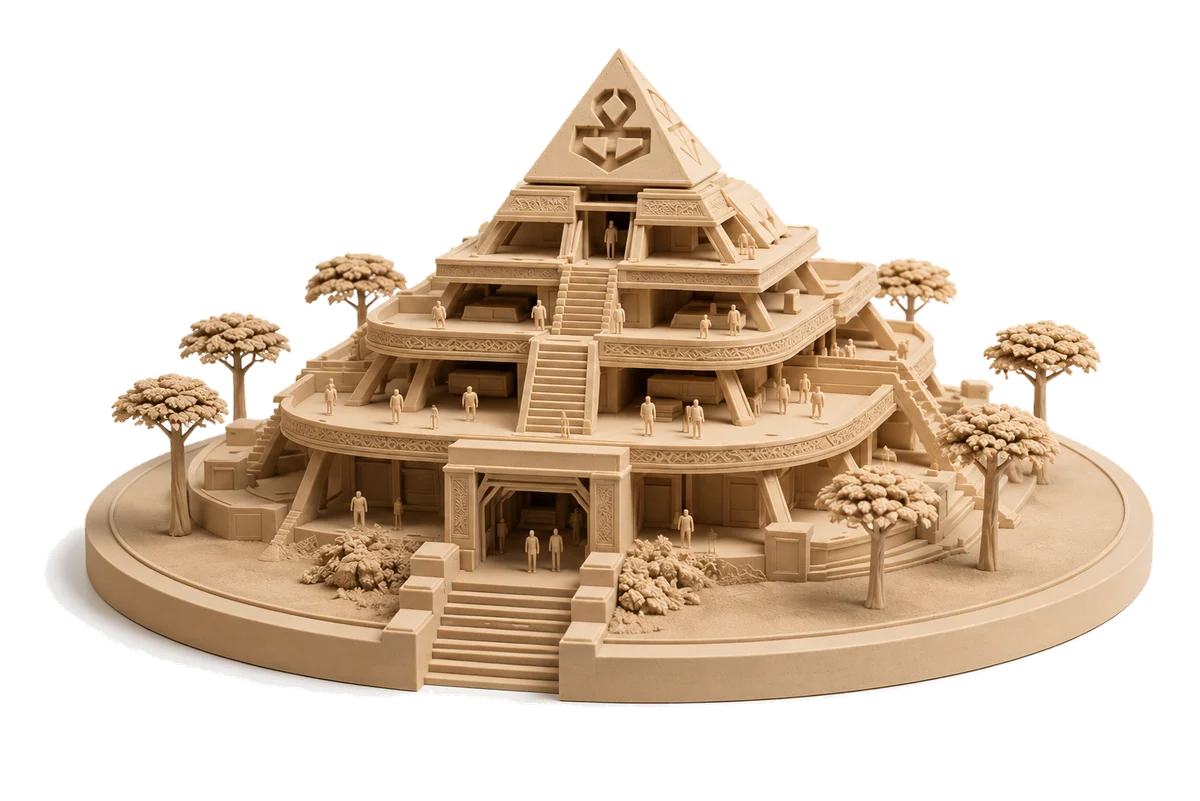
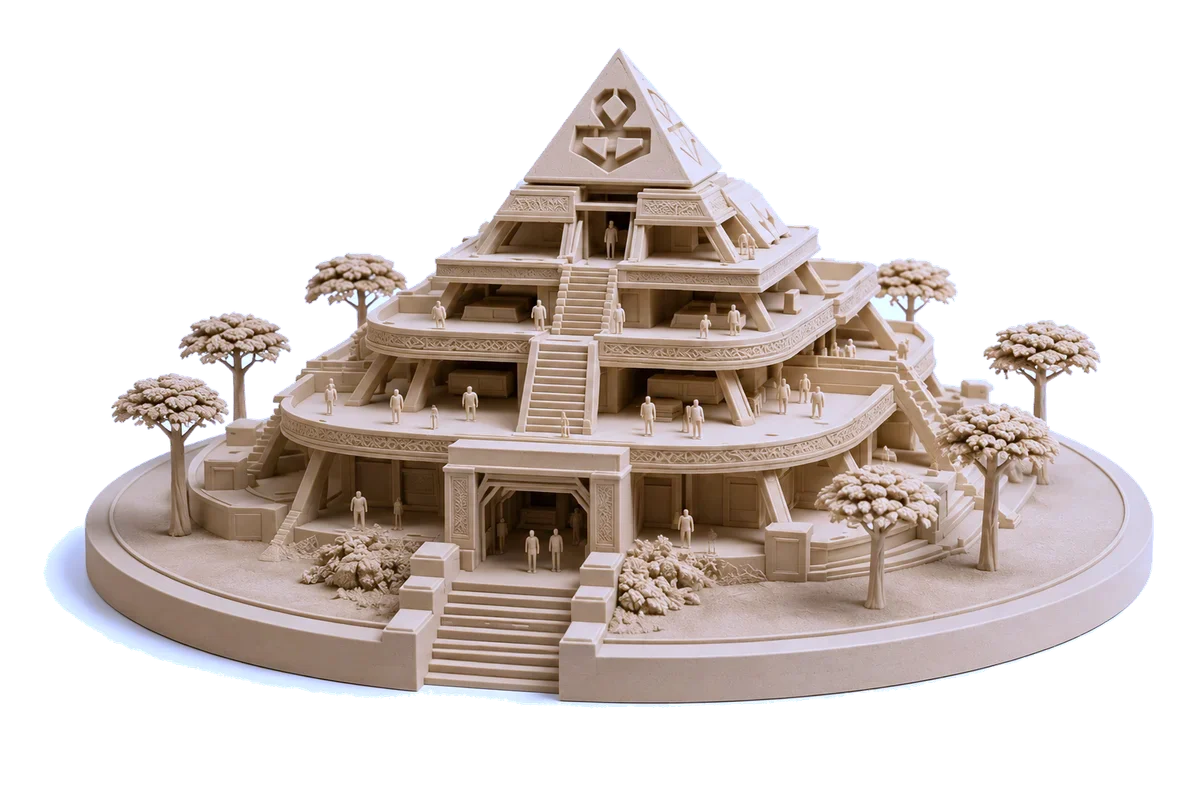
OURS Systems: pyramid graded to the night's finish, blueprint loupe removed
The cutout came from a warmer studio render; a luminance-preserving channel correction shifts it to the rose-taupe the painted sculpture actually wore in the room (measured means, not eyeballed gains). The blueprint drops its magnifier - plain full-width plate now.

Changed region(s): [[0.0308, 0.0624, 0.9867, 0.9051]]

diff --git a/components/ours/SystemsSection.tsx b/components/ours/SystemsSection.tsx
@@ -1,46 +1,18 @@
 'use client';
 
-import { useCallback, useRef } from 'react';
 import { OURS } from './tokens';
 import { ARTWORKS, isSoldOut } from '@/lib/storefront';
 import { BuyModal } from '@/components/storefront/BuyModal';
 
 // Systems of Power — Anyanwu's pyramid: the blueprint, the game, and
 // the invitation to keep playing. "The Documents" treatment: the
-// technical plate full width with a magnifier loupe (it rewards close
-// reading), the printed rules card beside a transcribed how-to-play,
-// the online version linked, and the sculpture itself collectable
-// through the standard storefront modal. The floating pyramid beside
-// the intro is the sculpture cut from its photography.
-
-const LOUPE_SIZE = 260;
-const LOUPE_ZOOM = 2.4;
+// technical plate full width, the printed rules card beside a
+// transcribed how-to-play, the online version linked, and the
+// sculpture itself collectable through the standard storefront modal.
+// The floating pyramid beside the intro is the sculpture cut from its
+// photography, graded to the finish it wore on the night.
 
 export function SystemsSection() {
-  const loupeRef = useRef<HTMLDivElement>(null);
-  const plateRef = useRef<HTMLDivElement>(null);
-
-  const hideLoupe = useCallback(() => {
-    if (loupeRef.current) loupeRef.current.style.display = 'none';
-  }, []);
-  const onZoomMove = useCallback((e: React.MouseEvent) => {
-    const loupe = loupeRef.current;
-    const plate = plateRef.current;
-    if (!loupe || !plate) return;
-    const r = (e.currentTarget as HTMLElement).getBoundingClientRect();
-    const p = plate.getBoundingClientRect();
-    const rx = Math.min(1, Math.max(0, (e.clientX - r.left) / r.width));
-    const ry = Math.min(1, Math.max(0, (e.clientY - r.top) / r.height));
-    loupe.style.display = 'block';
-    loupe.style.left = `${e.clientX - p.left - LOUPE_SIZE / 2}px`;
-    loupe.style.top = `${e.clientY - p.top - LOUPE_SIZE / 2}px`;
-    loupe.style.backgroundSize = `${r.width * LOUPE_ZOOM}px ${r.height * LOUPE_ZOOM}px`;
-    loupe.style.backgroundPosition = `${-(rx * r.width * LOUPE_ZOOM - LOUPE_SIZE / 2)}px ${-(
-      ry * r.height * LOUPE_ZOOM -
-      LOUPE_SIZE / 2
-    )}px`;
-  }, []);
-
   const pyramid = ARTWORKS.find((a) => a.id === 'anyanwu-pyramid');
   const pyramidBuyable = pyramid && !isSoldOut(pyramid) && pyramid.status === 'available';
 
@@ -77,15 +49,12 @@ export function SystemsSection() {
           The Blueprint
         </p>
         <hr className="mt-1.5 h-[2px] w-12 border-0" style={{ background: OURS.orange }} />
-        <div ref={plateRef} className="relative mt-5 overflow-hidden rounded-3xl">
+        <div className="relative mt-5 overflow-hidden rounded-3xl">
           {/* eslint-disable-next-line @next/next/no-img-element */}
           <img
             src="/images/ours/sop-blueprint.webp"
             alt="Reimagining the Pyramid — Anyanwu's technical blueprint: elevations, cross-sections, and a program key for the monument to knowledge."
             className="block h-auto w-full"
-            style={{ cursor: 'zoom-in' }}
-            onMouseMove={onZoomMove}
-            onMouseLeave={hideLoupe}
             draggable={false}
           />
           <span
@@ -93,22 +62,9 @@ export function SystemsSection() {
             className="pointer-events-none absolute inset-0 rounded-3xl"
             style={{ boxShadow: `inset 0 0 0 1px ${OURS.orange}` }}
           />
-          {/* magnifier loupe — the plate rewards close reading */}
-          <div
-            ref={loupeRef}
-            aria-hidden
-            className="pointer-events-none absolute z-10"
-            style={{
-              display: 'none',
-              width: LOUPE_SIZE,
-              height: LOUPE_SIZE,
-              border: `1px solid ${OURS.hair}`,
-              background: `#0a1f4d url(/images/ours/sop-blueprint.webp) no-repeat`,
-            }}
-          />
         </div>
         <p className="mt-4 font-mono text-[10px] uppercase tracking-[0.14em]" style={{ color: OURS.gray }}>
-          Reimagining the Pyramid — a contemporary monument to knowledge · hover to magnify
+          Reimagining the Pyramid — a contemporary monument to knowledge
         </p>
       </div>
 
